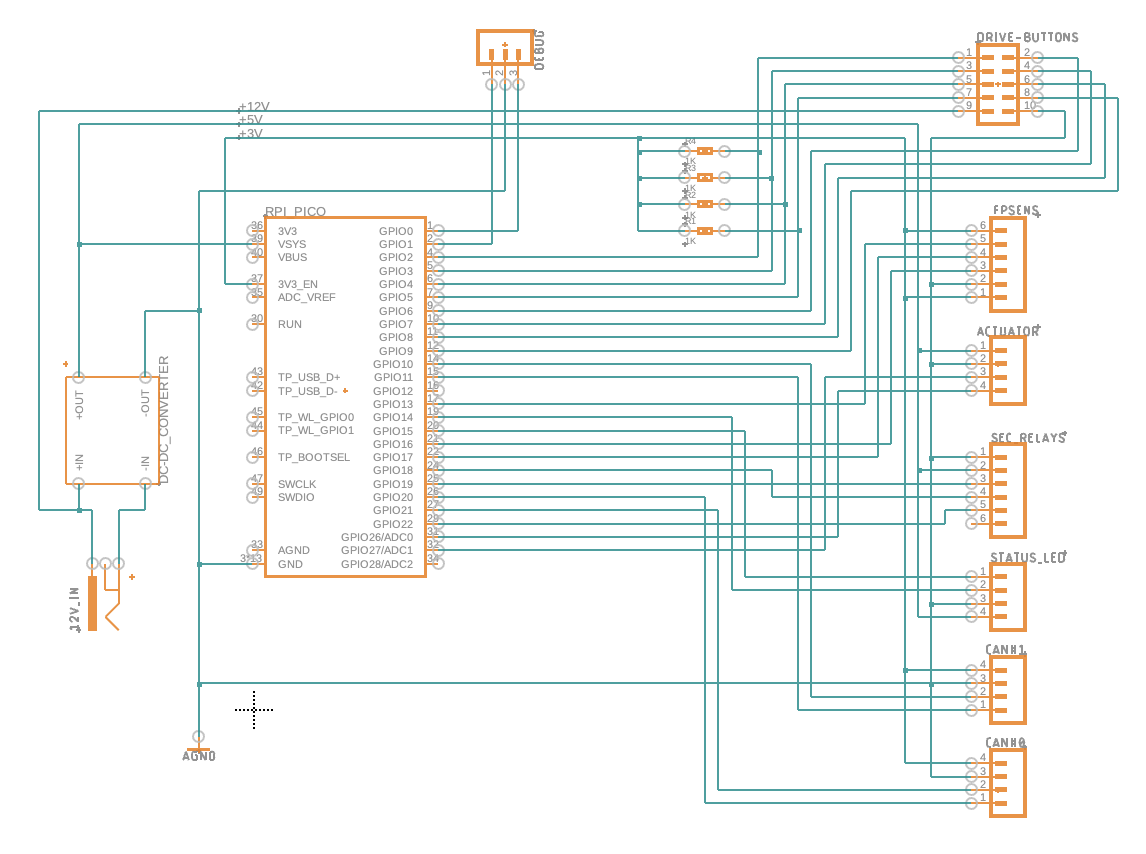
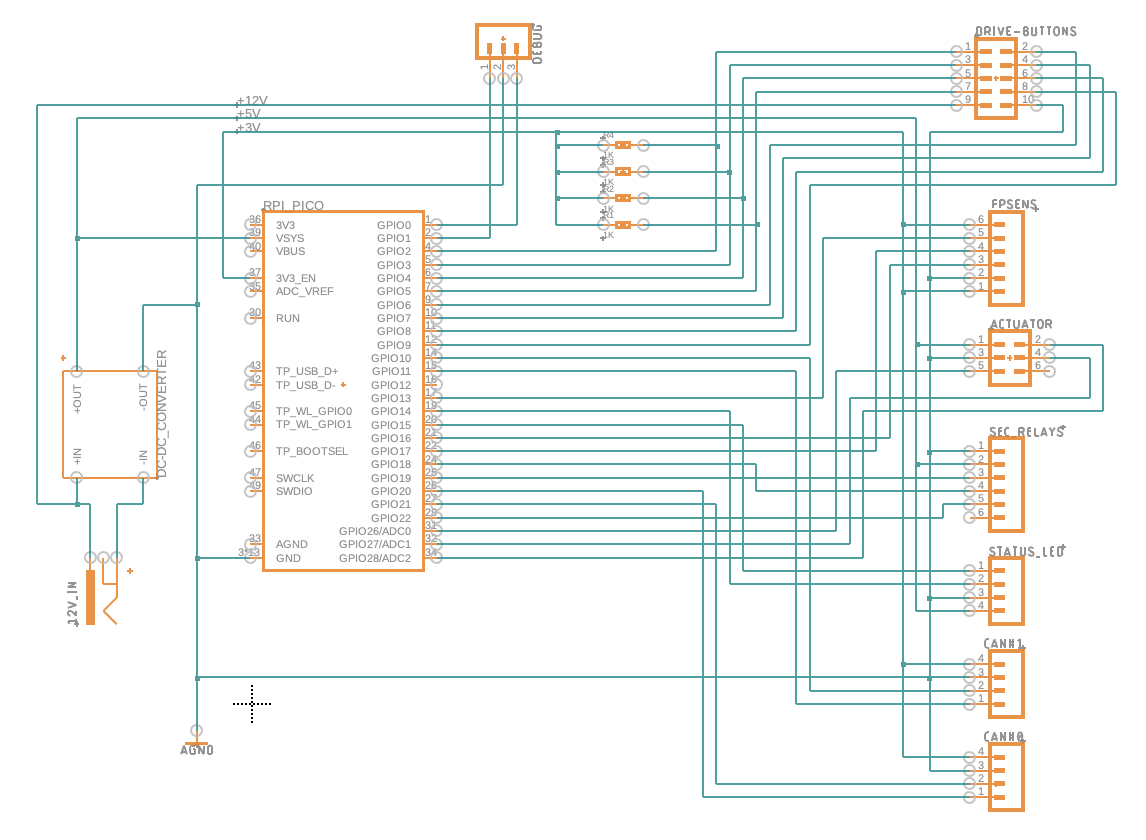
Calculate the distance and number of positions to move the actuator.
This is based on how the actuator will be placed in the car, on the
left side of the gearbox.

So when a LOWER drive is selected ('D' to 'P' for example), the gear
shifter moves FORWARD, but because of the linkage, the actuator needs
to move BACKWARD (pull in the actuator).

This looking at the gear selector leaver on the gearbox.

+ Swap the actuator motor relay pins on the Pico.
  This was just to make it "prettier" with the simulation LEDs.
  * The RED (simulating the activation of the motor relay (-)), is to the
    left (indicating FORWARD, <--, motion).
  * The GREEN (simulating the activation of the motor relay (+)) to the
    right of that (indicating BACKWARD, -->, motion).
  * Update the circuit diagram screenshot.
- Remove the `Direction` enum, no longer needed.
* Rewrite the `move_actuator()` function accordingly.
  * Change the params to the `move_actuator()` function.
    - No longer need the `direction`, we've already calculated that.
    * The `amount` option needs to be an i8, so it can be negative.
      * Negative means FORWARD (lower mode) - simulation LED: RED.
      * Positive means BACKWARD (higher mode) - simulation LED: GREEN.
  * The green and red LEDs to simulate direction and amount is now
    blinking the amount of movement instead of hard-coded five times.
* Rewrite the `actuator_control()` task function.
  - Simplify and remove all the calls to the `move_actuator()`
    function.
[…]

Changed region(s): [[0.0305, 0.0, 0.9773, 0.9905]]

diff --git a/code/src/main.rs b/code/src/main.rs
@@ -22,11 +22,7 @@ use {defmt_rtt as _, panic_probe as _};
 
 #[derive(Copy, Clone, PartialEq)]
 #[repr(u8)]
-enum Button { P, N, R, D, UNSET }
-
-#[derive(Copy, Clone)]
-#[repr(u8)]
-enum Direction { Forward, Backward }
+enum Button { P, R, N, D, UNSET }
 
 enum LedStatus { On, Off }
 enum StopWatchdog { Yes }
@@ -76,92 +72,73 @@ async fn feed_watchdog(
     }
 }
 
+// Actually move the actuator.
 async fn move_actuator(
-    direction:		&mut Direction,
-    amount:		u16,
+    amount:		i8,
     pin_motor_plus:	&mut Output<'static>,
     pin_motor_minus:	&mut Output<'static>)
 {
-    match direction {
-	Direction::Forward => {
-	    info!("Moving actuator: direction=FORWARD; amount={}", amount);
-	    pin_motor_minus.set_low(); // Set the MINUS to low.
+    if amount < 0 {
+	info!("Moving actuator: direction=FORWARD; amount={}", amount);
+	pin_motor_minus.set_low(); // Set the MINUS to low.
+	Timer::after_millis(500).await;
+
+	// FAKE: Simulate move by toggling the pin HIGH and LOW `amount` times.
+	for _i in amount..0 {
+	    pin_motor_plus.set_high();
 	    Timer::after_millis(500).await;
-
-	    // FAKE: Simulate move by toggling the pin HIGH and LOW `amount` times.
-	    for _i in 0..amount {
-		pin_motor_plus.set_high();
-		Timer::after_millis(500).await;
-		pin_motor_plus.set_low();
-		Timer::after_millis(500).await;
-	    }
+	    pin_motor_plus.set_low();
+	    Timer::after_millis(500).await;
 	}
-	Direction::Backward => {
-	    info!("Moving actuator: direction=BACKWARD; amount={}", amount);
-	    pin_motor_plus.set_low(); // Set the PLUS to low.
+    } else {
+	info!("Moving actuator: direction=BACKWARD; amount={}", amount);
+	pin_motor_plus.set_low(); // Set the PLUS to low.
 
-	    // FAKE: Simulate move by toggling the pin HIGH and LOW `amount` times.
-	    for _i in 0..amount {
-		pin_motor_minus.set_high();
-		Timer::after_millis(500).await;
-		pin_motor_minus.set_low();
-		Timer::after_millis(500).await;
-	    }
+	// FAKE: Simulate move by toggling the pin HIGH and LOW `amount` times.
+	for _i in 0..amount {
+	    pin_motor_minus.set_high();
+	    Timer::after_millis(500).await;
+	    pin_motor_minus.set_low();
+	    Timer::after_millis(500).await;
 	}
     }
 }
 
-// Talk to the actuator, move it to desired gear position.
-// FAKE: Just output what we *would* do if we actually HAD an actuator! :)
+// Control the actuator. Calculate in what direction and how much to move it to get to
+// the desired drive mode position.
 #[embassy_executor::task]
 async fn actuator_control(
     receiver:			Receiver<'static, ThreadModeRawMutex, Button, 64>,
     mut pin_motor_plus:		Output<'static>,
     mut pin_motor_minus:	Output<'static>,
-    pin_pot:			Input<'static>)
+    _pin_pot:			Input<'static>)
 {
     pin_motor_plus.set_slew_rate(SlewRate::Fast);
     pin_motor_minus.set_slew_rate(SlewRate::Fast);
 
     loop {
+	let button = receiver.receive().await; // Block waiting for data.
+
 	// TODO: Figure out what gear is in from this.
-	let _actuator_position = pin_pot.get_level();
+	//let _actuator_position = pin_pot.get_level();
 
-	// TODO: How do we move the actuator back and forth? There's only HIGH and LOW.. ??
-	match receiver.receive().await { // Block waiting for data.
-	    Button::UNSET => (), // Should be impossible, but just to make the compiler happy.
-	    Button::P  => {
-		info!("Moving actuator to (P)ark");
+	// FAKE: Use the current button selected to calculate the direction and amount to move the actuator
+	let _actuator_position = unsafe { BUTTON_ENABLED as u8 };
 
-		// FAKE: Simulate moving the actuator forward and backward five steps.
-		move_actuator(&mut Direction::Forward,  5, &mut pin_motor_plus, &mut pin_motor_minus).await;
-		move_actuator(&mut Direction::Backward, 5, &mut pin_motor_plus, &mut pin_motor_minus).await;
-	    }
-	    Button::N  => {
-		info!("Moving actuator to (N)eutral");
+	// Calculate the direction to move, based on current position and where we want to go.
+	// - => Higher gear - BACKWARDS
+	// + => Lower gear  - FORWARD
+	let amount: i8 = _actuator_position as i8 - button as i8;
+	debug!("Move direction and amount => '{} - {} = {}'", _actuator_position, button as i8, amount);
 
-		// FAKE: Simulate moving the actuator forward and backward five steps.
-		move_actuator(&mut Direction::Forward,  5, &mut pin_motor_plus, &mut pin_motor_minus).await;
-		move_actuator(&mut Direction::Backward, 5, &mut pin_motor_plus, &mut pin_motor_minus).await;
-	    }
-	    Button::R  => {
-		info!("Moving actuator to (R)everse");
-
-		// FAKE: Simulate moving the actuator forward and backward five steps.
-		move_actuator(&mut Direction::Forward,  5, &mut pin_motor_plus, &mut pin_motor_minus).await;
-		move_actuator(&mut Direction::Backward, 5, &mut pin_motor_plus, &mut pin_motor_minus).await;
-	    }
-	    Button::D  => {
-		info!("Moving actuator to (D)rive");
-
-		// FAKE: Simulate moving the actuator forward and backward five steps.
-		move_actuator(&mut Direction::Forward,  5, &mut pin_motor_plus, &mut pin_motor_minus).await;
-		move_actuator(&mut Direction::Backward, 5, &mut pin_motor_plus, &mut pin_motor_minus).await;
-	    }
-	}
+	// Move the actuator.
+	move_actuator(amount, &mut pin_motor_plus, &mut pin_motor_minus).await;
 
 	// Now that we're done moving the actuator, Enable reading buttons again.
 	unsafe { BUTTONS_BLOCKED = false };
+
+	// .. and update the button enabled.
+	unsafe { BUTTON_ENABLED = button };
     }
 }
 
@@ -218,7 +195,7 @@ async fn read_button(
 	match with_deadline(start + Duration::from_secs(1), btn.debounce()).await {
             Ok(_) => {
 		trace!("Button pressed for: {}ms", start.elapsed().as_millis());
-		debug!("Button pressed: {}; Button enabled: {}", button as u8, unsafe { BUTTON_ENABLED as u8 });
+		debug!("Button enabled: {}; Button pressed: {}", unsafe { BUTTON_ENABLED as u8 }, button as u8);
 
 		// We know who WE are, so turn ON our own LED and turn off all the other LEDs.
 		// Turn on our OWN LED.
@@ -244,9 +221,6 @@ async fn read_button(
 
 			    // Trigger the actuator to switch to (P)ark.
 			    CHANNEL_ACTUATOR.send(Button::P).await;
-
-			    // Update the button enabled.
-			    unsafe { BUTTON_ENABLED = Button::P };
 			}
 
 			continue;
@@ -271,9 +245,6 @@ async fn read_button(
 
 			    // Trigger the actuator to switch to (N)eutral.
 			    CHANNEL_ACTUATOR.send(Button::N).await;
-
-			    // Update the button enabled.
-			    unsafe { BUTTON_ENABLED = Button::N };
 			}
 			continue;
 		    }
@@ -297,9 +268,6 @@ async fn read_button(
 
 			    // Trigger the actuator to switch to (R)everse.
 			    CHANNEL_ACTUATOR.send(Button::R).await;
-
-			    // Update the button enabled.
-			    unsafe { BUTTON_ENABLED = Button::R };
 			}
 
 			continue;
@@ -324,9 +292,6 @@ async fn read_button(
 
 			    // Trigger the actuator to switch to (D)rive.
 			    CHANNEL_ACTUATOR.send(Button::D).await;
-
-			    // Update the button enabled.
-			    unsafe { BUTTON_ENABLED = Button::D };
 			}
 
 			continue;
@@ -349,8 +314,7 @@ async fn read_button(
 
 #[embassy_executor::main]
 async fn main(spawner: Spawner) {
-    #[allow(unused_mut)] // TODO: Remove this line when we got the valet mode checking done.
-    let mut valet_mode: bool = false;
+    let valet_mode: bool = false;
 
     info!("Start");
 
@@ -361,7 +325,7 @@ async fn main(spawner: Spawner) {
     let Pio { mut common, sm0, .. } = Pio::new(p.PIO1, Irqs);
     let mut neopixel = ws2812::Ws2812::new(&mut common, sm0, p.DMA_CH3, p.PIN_15);
     info!("Initialized the NeoPixel LED");
-    neopixel.write(&[(255,130,0).into()]).await; // ORANGE -> starting
+    neopixel.write(&[(255,100,0).into()]).await; // ORANGE -> starting
 
     // =====
     // Initialize the watchdog. Needs to be second, so it'll restart if something goes wrong.
@@ -378,14 +342,14 @@ async fn main(spawner: Spawner) {
 
     // =====
     // Initialize the MOSFET relays.
-    let mut eis_steering_lock = Output::new(p.PIN_18, Level::Low);	// EIS/steering lock
+    let mut eis_steering_lock   = Output::new(p.PIN_18, Level::Low);	// EIS/steering lock
     let mut eis_ignition_switch = Output::new(p.PIN_19, Level::Low);	// EIS/ignition switch
-    let mut eis_start = Output::new(p.PIN_22, Level::Low);		// EIS/start
+    let mut eis_start           = Output::new(p.PIN_22, Level::Low);	// EIS/start
     info!("Initialized the MOSFET relays");
 
     // =====
-    let actuator_motor_plus    = Output::new(p.PIN_27, Level::Low);	// Actuator/Motor Relay (+)
-    let actuator_motor_minus   = Output::new(p.PIN_28, Level::Low);	// Actuator/Motor Relay (-)
+    let actuator_motor_plus    = Output::new(p.PIN_27, Level::Low);	// Actuator/Motor Relay (-)
+    let actuator_motor_minus   = Output::new(p.PIN_28, Level::Low);	// Actuator/Motor Relay (+)
     let actuator_potentiometer = Input::new(p.PIN_26, Pull::None);	// Actuator/Potentiometer Brush
     spawner.spawn(actuator_control(
 	CHANNEL_ACTUATOR.receiver(),
@@ -439,8 +403,8 @@ async fn main(spawner: Spawner) {
     // Spawn off one button reader per button. They will then spawn off a LED controller each so that
     // each button can control their "own" LED.
     spawner.spawn(read_button(spawner, Button::P, p.PIN_2.degrade(), p.PIN_6.degrade())).unwrap(); // button/P
-    spawner.spawn(read_button(spawner, Button::N, p.PIN_3.degrade(), p.PIN_7.degrade())).unwrap(); // button/N
-    spawner.spawn(read_button(spawner, Button::R, p.PIN_4.degrade(), p.PIN_8.degrade())).unwrap(); // button/R
+    spawner.spawn(read_button(spawner, Button::R, p.PIN_3.degrade(), p.PIN_7.degrade())).unwrap(); // button/R
+    spawner.spawn(read_button(spawner, Button::N, p.PIN_4.degrade(), p.PIN_8.degrade())).unwrap(); // button/N
     spawner.spawn(read_button(spawner, Button::D, p.PIN_5.degrade(), p.PIN_9.degrade())).unwrap(); // button/D
     info!("Initialized the drive buttons");
 

diff --git a/README.md b/README.md
@@ -103,9 +103,9 @@ Q: Can DriveByWire check CAN for certain buttons around the car
 |   4 | GPIO  2 | Button (Switch - P)          |-| 37  | 3V3_EN  |                                  |
 |   5 | GPIO  3 | Button (Switch - R)          |-| 36  | 3V3_OUT |                                  |
 |   6 | GPIO  4 | Button (Switch - N)          |-| 35  | VDC_REF |                                  |
-|   7 | GPIO  5 | Button (Switch - D)          |-| 34  | GPIO 28 | Actuator - Motor Relay (-)       |
+|   7 | GPIO  5 | Button (Switch - D)          |-| 34  | GPIO 28 | Actuator - Motor Relay (+)       |
 |   8 | GND     |                              |-| 33  | GND     |                                  |
-|   9 | GPIO  6 | Button (Telltale - P)        |-| 32  | GPIO 27 | Actuator - Motor Relay (+)       |
+|   9 | GPIO  6 | Button (Telltale - P)        |-| 32  | GPIO 27 | Actuator - Motor Relay (-)       |
 |  10 | GPIO  7 | Button (Telltale - R)        |-| 31  | GPIO 26 | Actuator - Potentiometer Brush   |
 |  11 | GPIO  8 | Button (Telltale - N)        |-| 30  | RUN     |                                  |
 |  12 | GPIO  9 | Button (Telltale - D)        |-| 29  | GPIO 22 | EIS Relay (#3 - start)           |
